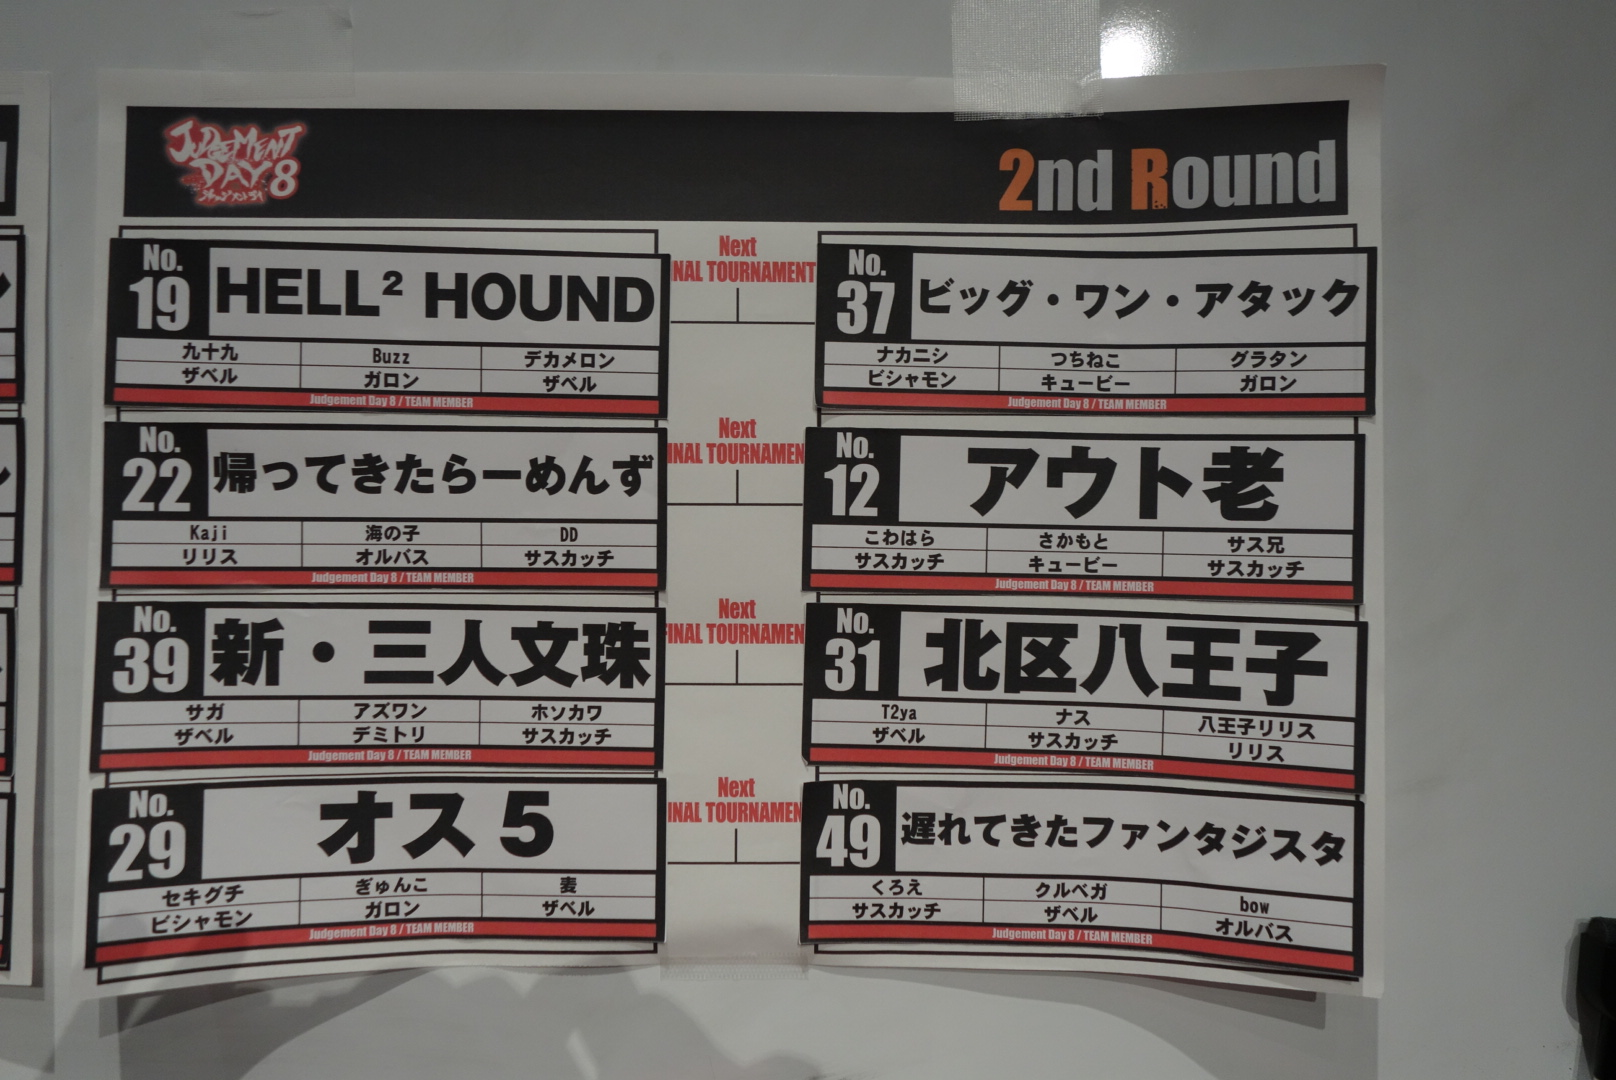
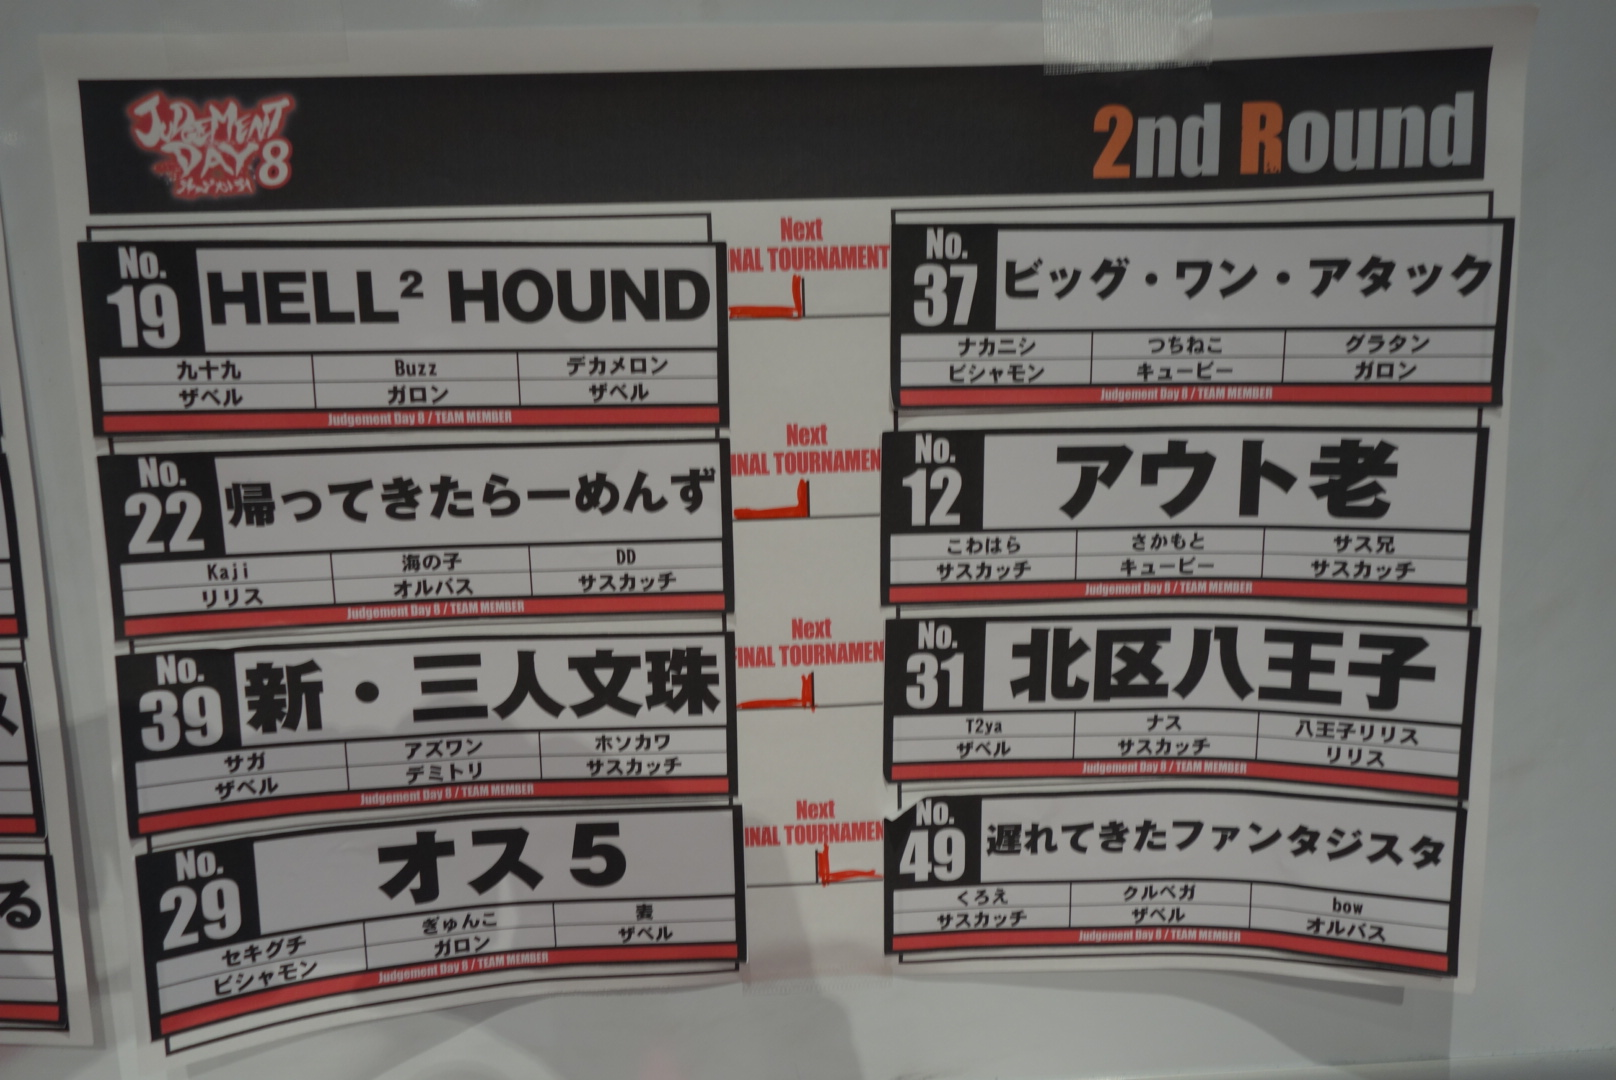
決勝トーナメント反映

diff --git a/jmd/08/index.html b/jmd/08/index.html
@@ -204,6 +204,11 @@
           </section> -->
           <h2>対戦表・トーナメント表</h2>
           <section class="archive">
+            <h3>決勝トーナメント</h3>
+            <ul class="thumb-list brackets-list">
+              <li><a class="fancybox" rel="gallery2" href="img/result/Final.JPG" title="" ><img src="img/result/Final.JPG" alt=""></a></li>
+          </section>
+          <section class="archive">
             <h3>二次予選</h3>
             <ul class="thumb-list brackets-list">
               <li><a class="fancybox" rel="gallery2" href="img/result/2_1.JPG" title="" ><img src="img/result/2_1.JPG" alt=""></a></li>
